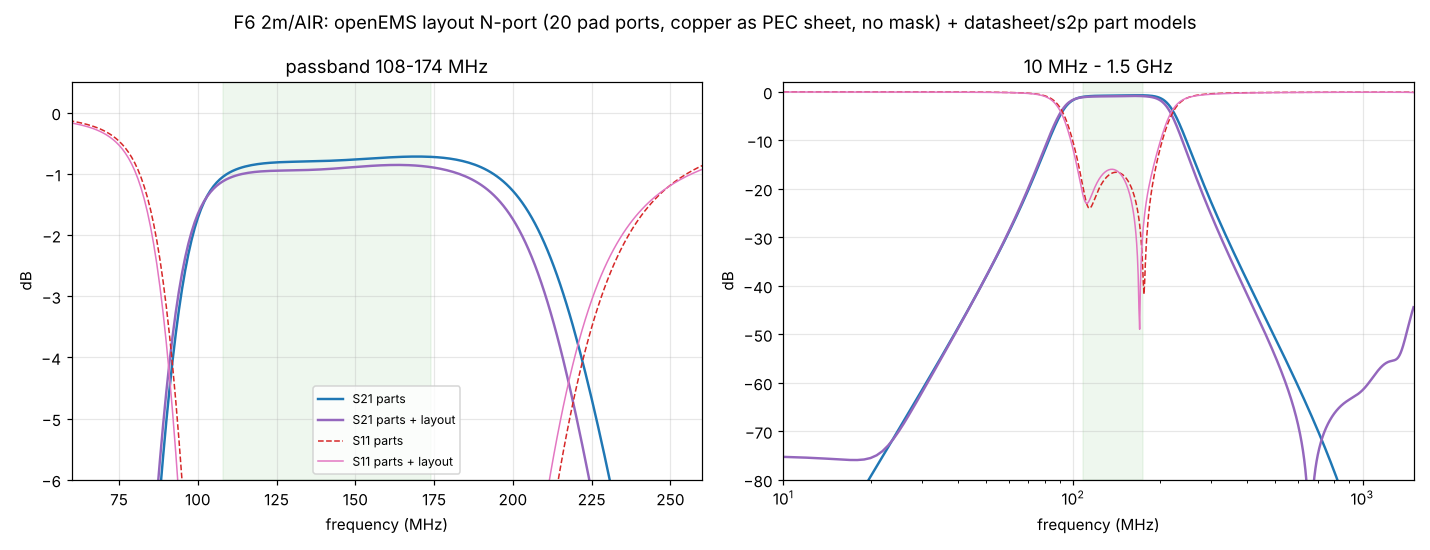
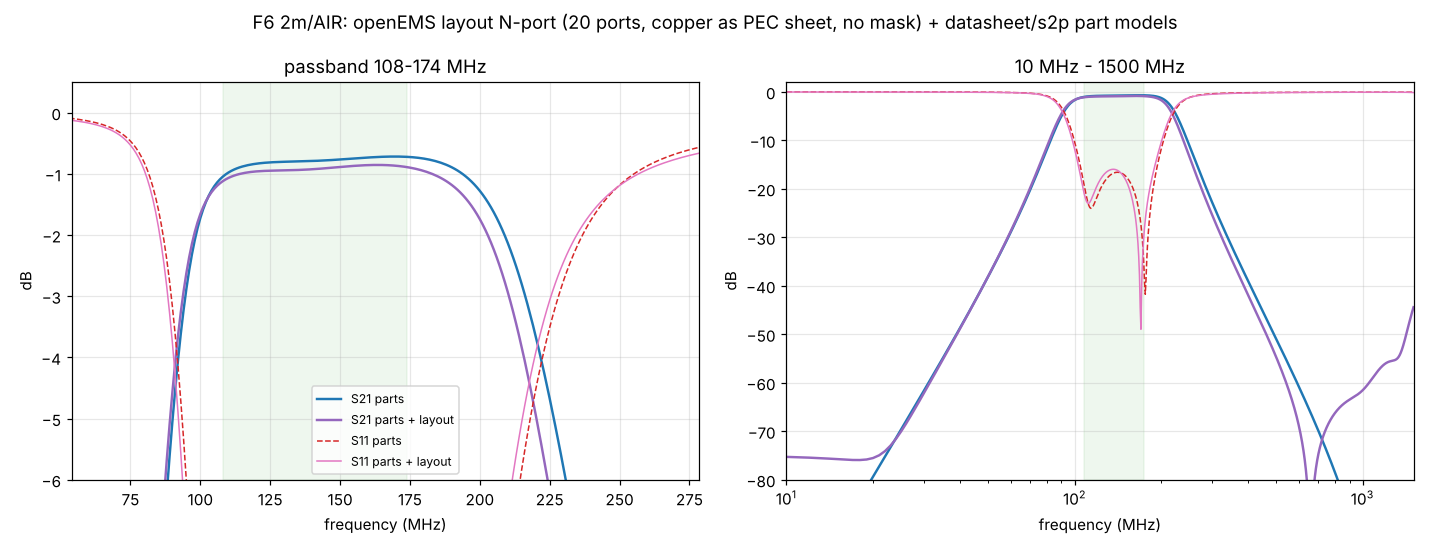
simu: lane_layout_plot.py (any lane), void_pads.py what-if (inner planes cleared under a lane's signal pads)
F7 with the layout: pad capacitance ~0.85 pF per lane node to In1 pulls RL to 5.8 dB above 1 GHz.

Claude-Session: https://claude.ai/code/session_01YRUiF8Vp4242sya9Xyg3TV

diff --git a/simu/lane_layout_plot.py b/simu/lane_layout_plot.py
@@ -1,0 +1,39 @@
+"""One filter-bank lane: part models alone vs part models + the openEMS layout N-port of the lane.
+
+    python3 simu/lane_layout_plot.py 6 openems/results/f6      -> out/f6_layout.png
+"""
+import os, sys, json
+import numpy as np, skrf as rf
+import matplotlib; matplotlib.use("Agg"); import matplotlib.pyplot as plt
+HERE = os.path.dirname(os.path.abspath(__file__)); sys.path.insert(0, HERE)
+import bank_sim as B
+k, d = int(sys.argv[1]), os.path.join(HERE, sys.argv[2])
+bp = json.load(open(os.path.join(B.ROOT, "bandplan.json"), encoding="utf-8"))["branches"][k]
+lo, hi = bp["lo_hz"] / 1e6, bp["hi_hz"] / 1e6
+comps, pins = B.load_netlist(); by_ref, models = B.load_parts()
+nt = rf.Network(os.path.join(d, next(f for f in os.listdir(d) if f.endswith("p") and ".s" in f)))
+fmax = nt.f[-1] / 1e6
+freq = rf.Frequency(10, fmax, int(fmax - 9), unit="MHz")
+lay = B.load_layout(d, freq)
+a, _ = B.build(k, comps, pins, by_ref, models, freq)
+b, _ = B.build(k, comps, pins, by_ref, models, freq, layout=lay)
+f = freq.f / 1e6
+fig, ax = plt.subplots(1, 2, figsize=(13, 5))
+zoom = (max(10, lo * 0.5), min(fmax, hi * 1.6))
+for x, lim in ((ax[0], zoom + (-6, 0.5)), (ax[1], (10, fmax, -80, 2))):
+    x.plot(f, a.s_db[:, 1, 0], "tab:blue", lw=1.6, label="S21 parts")
+    x.plot(f, b.s_db[:, 1, 0], "tab:purple", lw=1.6, label="S21 parts + layout")
+    x.plot(f, a.s_db[:, 0, 0], "tab:red", lw=1, ls="--", label="S11 parts")
+    x.plot(f, b.s_db[:, 0, 0], "tab:pink", lw=1, label="S11 parts + layout")
+    x.axvspan(max(lo, 10), min(hi, fmax), color="tab:green", alpha=0.08)
+    x.set_xlim(lim[:2]); x.set_ylim(lim[2:]); x.grid(alpha=0.3); x.set_xlabel("frequency (MHz)"); x.set_ylabel("dB")
+ax[0].set_title(f"passband {lo:g}-{hi:g} MHz"); ax[1].set_title(f"10 MHz - {fmax:g} MHz")
+ax[1].set_xscale("log"); ax[0].legend(fontsize=8, loc="lower center")
+fig.suptitle(f"F{k} {bp['name']}: openEMS layout N-port ({nt.nports} ports, copper as PEC sheet, no mask) + datasheet/s2p part models")
+fig.tight_layout(); fig.savefig(os.path.join(HERE, "out", f"f{k}_layout.png"), dpi=110)
+ib = (f >= max(lo, 10)) & (f <= min(hi, fmax))
+for nm, n in (("parts", a), ("parts+layout", b)):
+    s21 = n.s_db[:, 1, 0]
+    i3 = f[s21 >= s21.max() - 3]
+    print(f"F{k} {nm:13s} IL {-s21[ib].max():.2f}-{-s21[ib].min():.2f} dB, RL min {-n.s_db[ib, 0, 0].max():.1f} dB, "
+          f"-3 dB {i3.min():.0f}-{i3.max():.0f} MHz")

diff --git a/simu/openems/void_pads.py b/simu/openems/void_pads.py
@@ -1,0 +1,47 @@
+"""What-if: clear the inner GND planes under the signal pads of one filter-bank lane, so the pads see B.Cu instead of
+In1 0.2 mm below (each lane node carries ~0.85 pF of pad capacitance to In1, which detunes the UHF high-pass F7).
+
+Adds keep-out rule areas (no copper fill) on In1.Cu and In2.Cu under every non-GND pad of the given parts, grown by
+GROW, refills the zones and saves a copy. The GND pads of the shunt parts keep their plane and vias.
+
+    kicad-python void_pads.py board.kicad_pcb out.kicad_pcb C701 C702 C703 L701 L702 [--grow 0.3]
+"""
+import sys
+import pcbnew
+
+
+def main(src, dst, refs, grow):
+    b = pcbnew.LoadBoard(src)
+    mm = pcbnew.FromMM
+    n = 0
+    for fp in b.GetFootprints():
+        if fp.GetReference() not in refs:
+            continue
+        for p in fp.Pads():
+            if p.GetNetname() == "GND":
+                continue
+            bb = p.GetBoundingBox()
+            x0, y0, x1, y1 = bb.GetX() - mm(grow), bb.GetY() - mm(grow), bb.GetRight() + mm(grow), bb.GetBottom() + mm(grow)
+            for layer in (pcbnew.In1_Cu, pcbnew.In2_Cu):
+                z = pcbnew.ZONE(b)
+                z.SetIsRuleArea(True)
+                z.SetDoNotAllowZoneFills(True)
+                z.SetDoNotAllowTracks(False); z.SetDoNotAllowVias(False); z.SetDoNotAllowPads(False)
+                z.SetDoNotAllowFootprints(False)
+                z.SetLayer(layer)
+                z.SetZoneName(f"VOID_{fp.GetReference()}_{p.GetNumber()}")
+                ol = z.Outline(); ol.NewOutline()
+                for x, y in ((x0, y0), (x1, y0), (x1, y1), (x0, y1)):
+                    ol.Append(int(x), int(y))
+                b.Add(z); n += 1
+    pcbnew.ZONE_FILLER(b).Fill(b.Zones())
+    pcbnew.SaveBoard(dst, b)
+    print(f"{n} void areas on In1/In2 -> {dst}")
+
+
+if __name__ == "__main__":
+    a = sys.argv[1:]
+    grow = 0.3
+    if "--grow" in a:
+        i = a.index("--grow"); grow = float(a[i + 1]); del a[i:i + 2]
+    main(a[0], a[1], set(a[2:]), grow)
